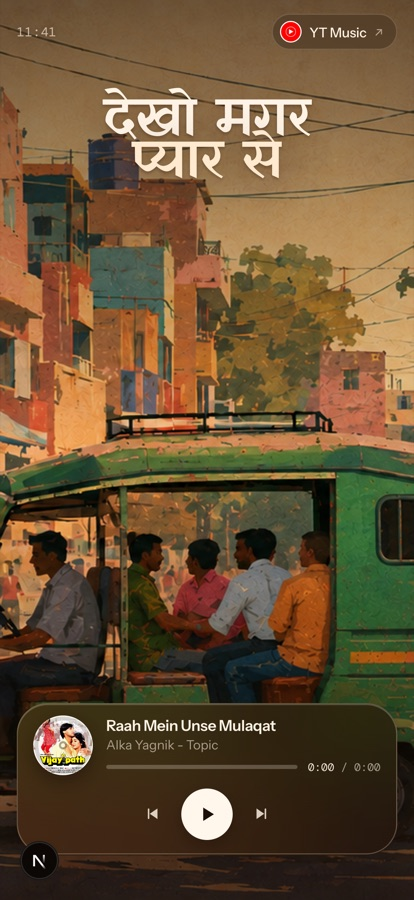
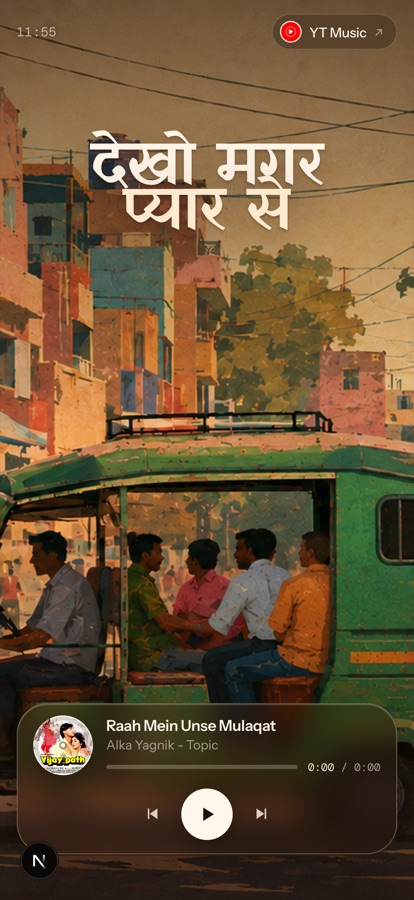
Scale up the hero, shorten the player, lighten the glass
- Display type up to clamp(3.7rem, 11.6vw, 9.8rem), leading down to .74 and the
  lockup nudged lower on the page
- Backdrop blur down from 48px to 14px so the illustration reads through the pill
- Player narrowed to 545px; playlist counter removed

Changed region(s): [[0.2029, 0.0933, 0.7826, 0.28], [0.087, 0.0311, 0.1449, 0.0622]]

diff --git a/components/TempoPlayer/tempo-player.css b/components/TempoPlayer/tempo-player.css
@@ -6,13 +6,14 @@
   gap: clamp(.9rem, 1.8vw, 1.3rem);
   padding: .65rem .85rem .65rem .65rem;
   color: #fff4e6;
-  background: linear-gradient(104deg, rgba(84, 44, 28, .42), rgba(30, 15, 10, .4));
+  background: linear-gradient(104deg, rgba(84, 44, 28, .34), rgba(30, 15, 10, .32));
   border: 1px solid rgba(255, 233, 208, .26);
   border-radius: 999px;
   box-shadow: 0 20px 54px rgba(16, 7, 3, .42), inset 0 1px 0 rgba(255, 246, 234, .2);
   /* No manual -webkit- twin here: the minifier collapses the pair and keeps only
-     the prefixed one, which modern Chrome no longer supports. It adds prefixes itself. */
-  backdrop-filter: blur(48px) saturate(150%);
+     the prefixed one, which modern Chrome no longer supports. It adds prefixes itself.
+     Kept light so the illustration still reads through the glass. */
+  backdrop-filter: blur(14px) saturate(125%);
 }
 
 /* ---------- artwork ---------- */
@@ -121,18 +122,6 @@
 .controls .play:disabled { opacity: .55; cursor: progress; }
 .controls .play svg { width: 22px; height: 22px; }
 
-.counter {
-  margin-right: .5rem;
-  padding: .2rem .42rem;
-  color: rgba(255, 244, 230, .62);
-  font-family: var(--font-mono), ui-monospace, monospace;
-  font-size: .6rem;
-  font-variant-numeric: tabular-nums;
-  letter-spacing: .06em;
-  border: 1px solid rgba(255, 233, 208, .22);
-  border-radius: 5px;
-}
-.counter i { margin: 0 .1em; font-style: normal; opacity: .5; }
 .volume { display: flex; align-items: center; gap: .1rem; }
 .volume input[type=range] {
   width: 0;
@@ -172,7 +161,7 @@
   .art-ring { box-shadow: inset 0 0 0 4px rgba(20, 10, 6, .16); }
   .scrub { margin-top: .45rem; }
   .controls { grid-column: 1 / -1; justify-content: center; gap: .5rem; }
-  .volume, .counter { display: none; }
+  .volume { display: none; }
   .controls .play { width: 50px; height: 50px; }
   .ready { left: 1.3rem; }
   .is-message { padding: .9rem 1.2rem; }

diff --git a/app/globals.css b/app/globals.css
@@ -74,8 +74,8 @@ button { cursor: pointer; }
 .chip-arrow { font-size: .68rem; opacity: .55; }
 
 /* ---------- player + hero placement ---------- */
-.player-slot { width: min(100%, 690px); margin: auto auto 0; flex: none; }
-.hero-title { margin: clamp(1rem, 4vh, 3rem) 0 0; flex: none; text-align: center; }
+.player-slot { width: min(100%, 545px); margin: auto auto 0; flex: none; }
+.hero-title { margin: clamp(2.2rem, 9vh, 6rem) 0 0; flex: none; text-align: center; }
 .hero-title h1 {
   display: grid;
   justify-items: center;
@@ -83,8 +83,10 @@ button { cursor: pointer; }
   margin: 0;
   font-family: var(--font-display), serif;
   font-weight: 400;
-  font-size: clamp(3.3rem, 10.2vw, 8.6rem);
-  line-height: .78;
+  font-size: clamp(3.7rem, 11.6vw, 9.8rem);
+  /* .74 is the tightest setting where the two lines interlock without their ink
+     actually touching — below this the े matra of line two clips into line one. */
+  line-height: .74;
   letter-spacing: -.005em;
   text-shadow: 0 2px 3px rgba(38, 14, 6, .28), 0 16px 50px rgba(26, 10, 4, .55);
 }

diff --git a/components/TempoPlayer/TempoPlayer.tsx b/components/TempoPlayer/TempoPlayer.tsx
@@ -56,7 +56,6 @@ export default function TempoPlayer() {
     </div>
 
     <div className="controls">
-      <span className="counter">{String(index + 1).padStart(2, "0")}<i>/</i>{tracks.length}</span>
       <div className="volume" style={{ ["--p" as string]: `${muted ? 0 : volume}%` }}>
         <button className="ghost" onClick={() => setMuted(!muted)} aria-label={muted ? "Unmute" : "Mute"}><Speaker off={muted} /></button>
         <input aria-label="Volume" type="range" min="0" max="100" value={muted ? 0 : volume} onChange={e => { setVolume(+e.target.value); setMuted(+e.target.value === 0); }} />
